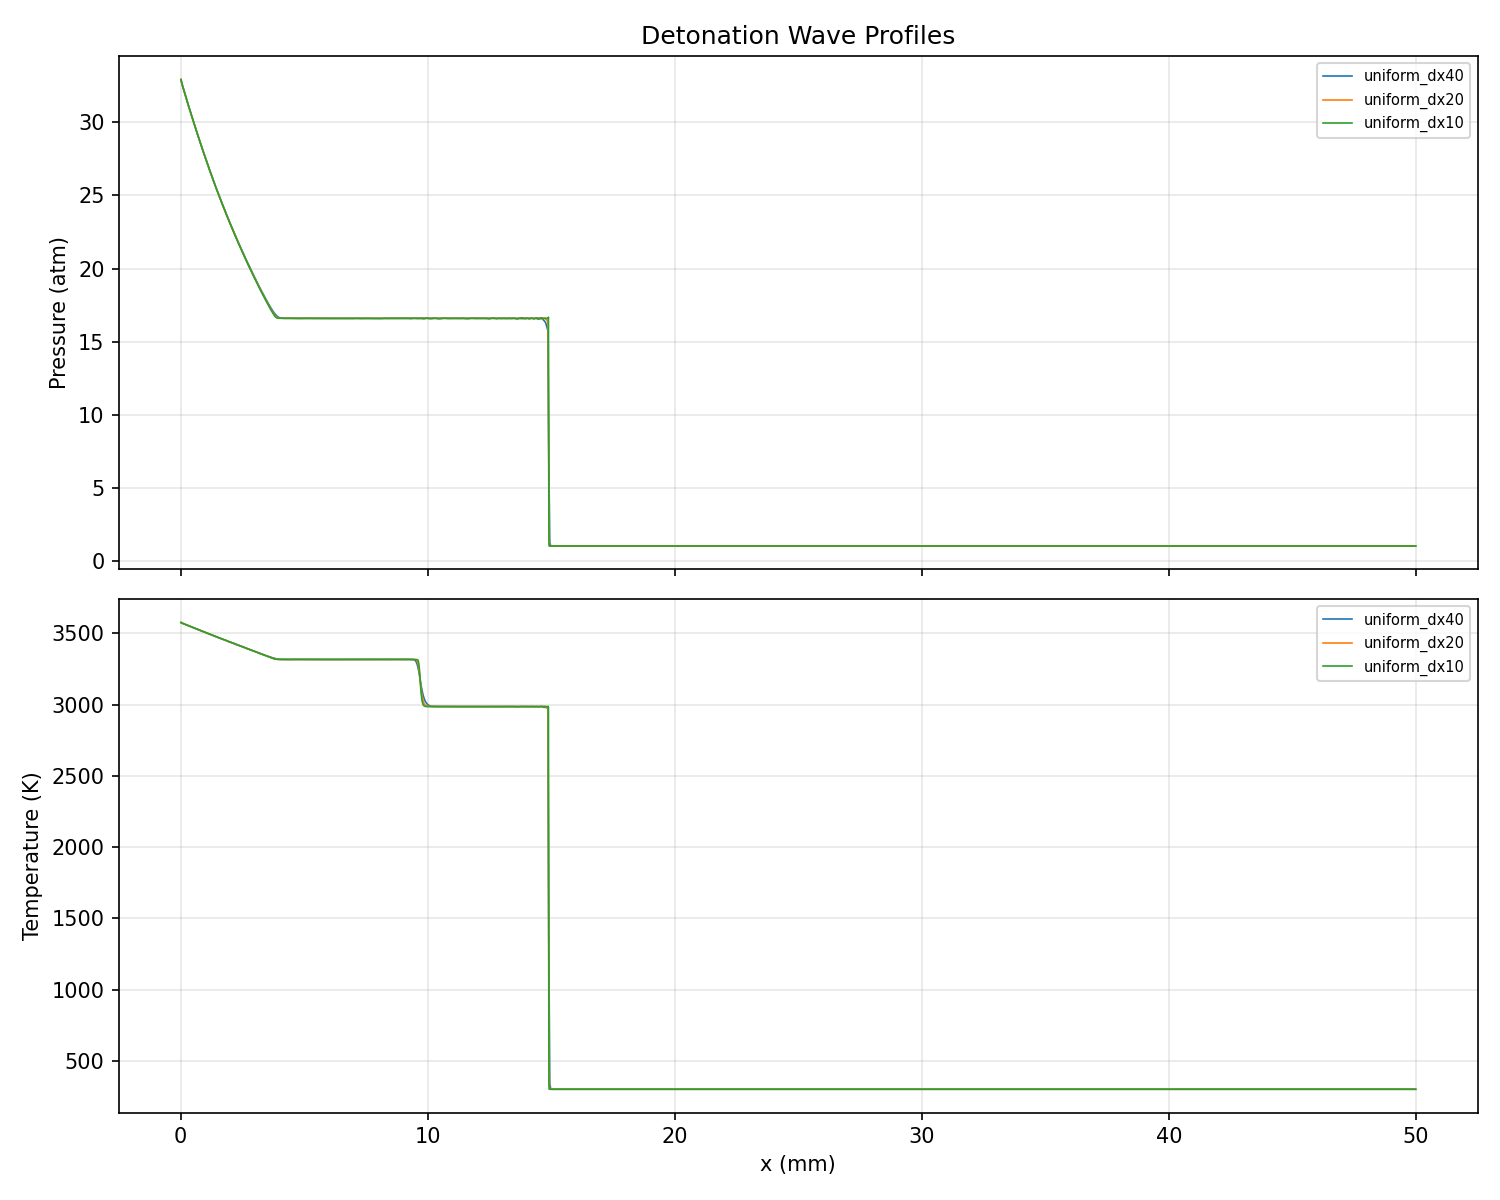
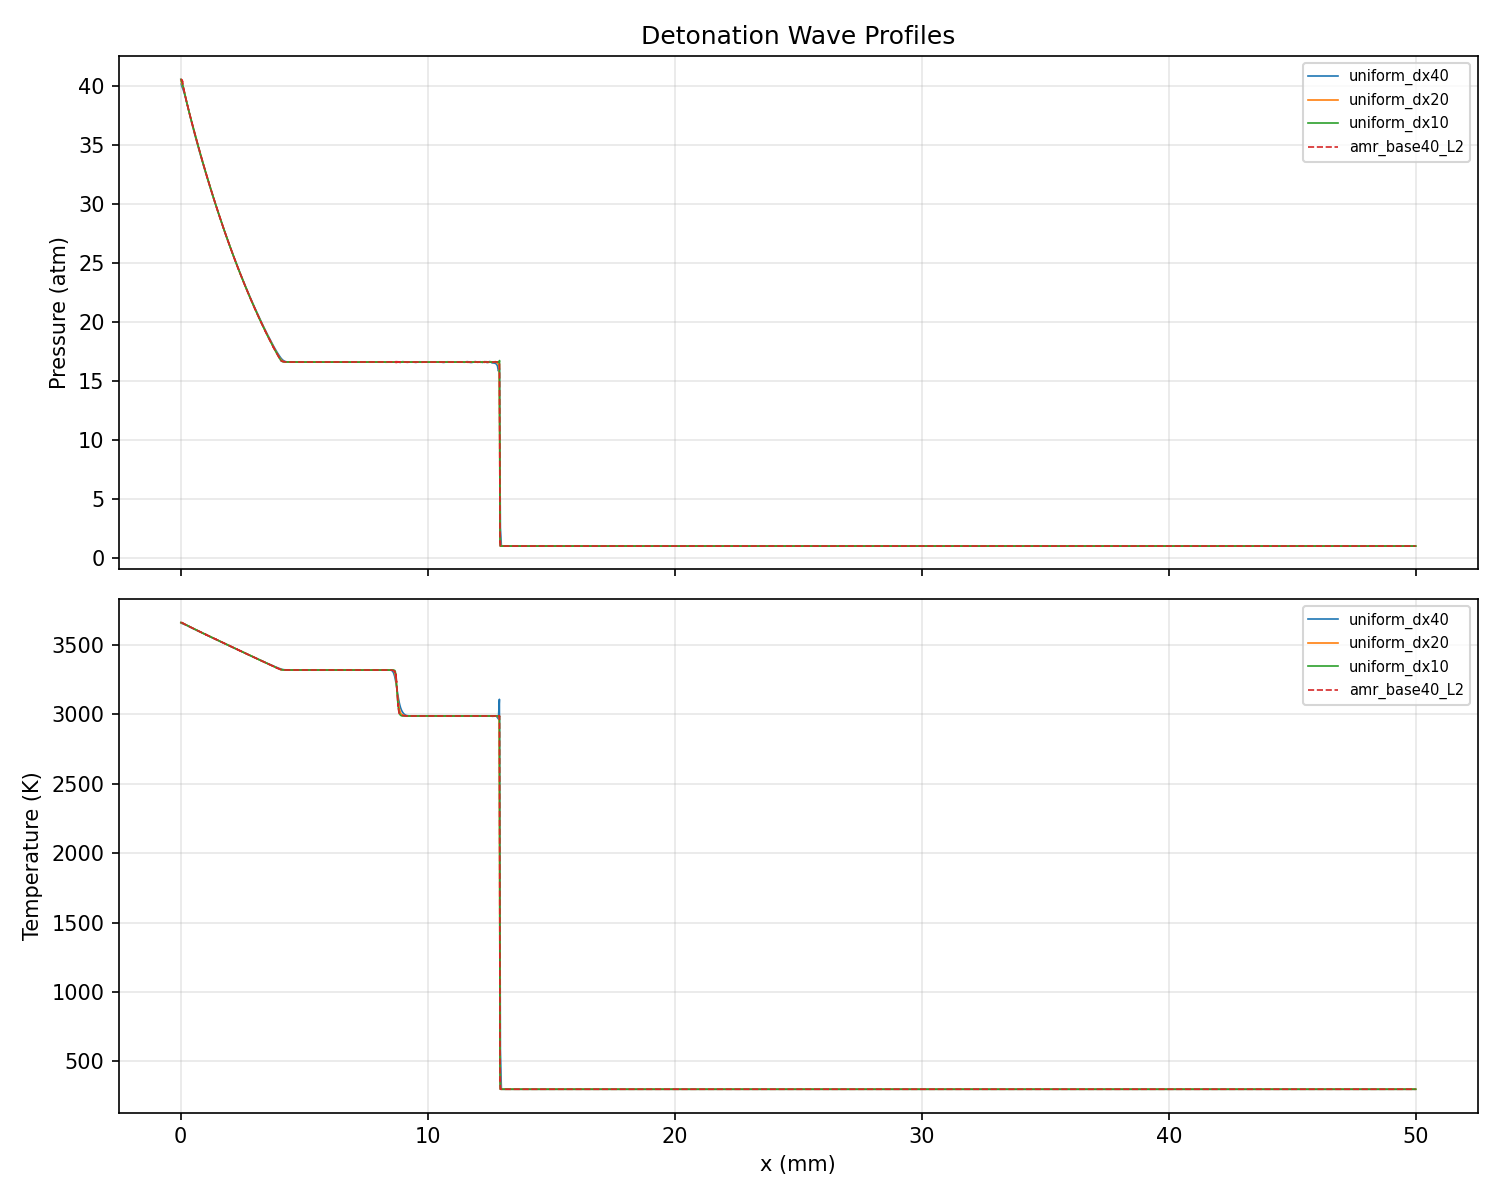
Debug AMR convergence: reconstructParMesh, cell sorting, Cx fields
Three AMR issues found and fixed:
1. reconstructPar fails on AMR (no pointProcAddressing) — use
   reconstructParMesh first to create addressing, then reconstructPar
2. Reconstructed AMR cells in arbitrary order — sort by x (np.argsort)
   before shock tracking (was giving V_CJ = -512 m/s, now 1980.0)
3. Cell centers unknown for varying-count AMR mesh — read Cx field
   from writeCellCentres postProcess instead of computing from blockMesh

AMR validated: V_CJ = 1980.0 m/s vs uniform_dx10 = 1979.7 m/s
(0.016% difference at same effective resolution).

Updated run.sh in submit_detonation.py to use reconstructParMesh for
AMR cases automatically.

diff --git a/papers/sun-2023-cpc-292/scripts/analyze_convergence.py b/papers/sun-2023-cpc-292/scripts/analyze_convergence.py
@@ -95,27 +95,32 @@ def read_scalar_field(field_path):
 
 
 def get_cell_centers_x(case_path, time_dir):
-    """Get cell center x-coordinates from blockMeshDict for 1D cases."""
-    # For these 1D convergence cases, compute directly from blockMeshDict
+    """Get cell center x-coordinates.
+
+    For AMR cases: reads the Cx field (written by writeCellCentres postProcess).
+    For uniform cases: computes from blockMeshDict.
+    """
+    # Try Cx field first (works for AMR with varying cell count)
+    cx_file = time_dir / "Cx"
+    if cx_file.exists():
+        return read_scalar_field(cx_file)
+
+    # Uniform case: compute from blockMeshDict
     bmdict = case_path / "system" / "blockMeshDict"
     with open(bmdict) as f:
         content = f.read()
 
-    # Extract cell count from hex block: hex (...) (Nx Ny Nz)
     hex_match = re.search(r"hex\s+\([^)]+\)\s+\((\d+)\s+\d+\s+\d+\)", content)
     if not hex_match:
         return None
 
     ncells = int(hex_match.group(1))
 
-    # Extract vertices section — find 8 vertex coordinates between "vertices" and "blocks"
     vert_section = re.search(r"vertices\s*\((.*?)\)\s*;\s*\n", content, re.DOTALL)
     if not vert_section:
-        # Fallback: use known domain length
-        dx = DOMAIN_LENGTH / ncells if 'DOMAIN_LENGTH' in dir() else 0.05 / ncells
+        dx = 0.05 / ncells
         return np.linspace(dx / 2, 0.05 - dx / 2, ncells)
 
-    # Parse vertex x-coordinates from the vertices block
     verts_text = vert_section.group(1)
     x_vals = []
     for m in re.finditer(r"\(\s*([0-9.e+-]+)\s+[0-9.e+-]+\s+[0-9.e+-]+\s*\)", verts_text):
@@ -127,7 +132,6 @@ def get_cell_centers_x(case_path, time_dir):
         dx = (x_max - x_min) / ncells
         return np.linspace(x_min + dx / 2, x_max - dx / 2, ncells)
 
-    # Last resort
     dx = 0.05 / ncells
     return np.linspace(dx / 2, 0.05 - dx / 2, ncells)
 
@@ -206,6 +210,11 @@ def analyze_case(case_name, profile_time=None):
             # For AMR, cell count changes — skip if mismatch
             continue
 
+        # Sort by x (AMR cells may be in arbitrary order)
+        sort_idx = np.argsort(x)
+        x = x[sort_idx]
+        p = p[sort_idx]
+
         shock_x, p_max = find_shock_position(x, p)
         shock_data.append({"t": t, "shock_x": shock_x, "p_max": p_max})
 
@@ -213,7 +222,8 @@ def analyze_case(case_name, profile_time=None):
         if profile_time is not None and T_file.exists():
             if abs(t - profile_time) < 0.3e-6:  # within 0.3 μs
                 T = read_scalar_field(T_file)
-                if len(T) == len(x):
+                if len(T) == len(sort_idx):
+                    T = T[sort_idx]  # apply same sort as x/p
                     induction = compute_induction_length(x, T, shock_x)
                     profile_data = {
                         "t": t,

diff --git a/bohrium/submit_detonation.py b/bohrium/submit_detonation.py
@@ -240,7 +240,7 @@ export OMPI_ALLOW_RUN_AS_ROOT_CONFIRM=1
 mpirun -np {np} --oversubscribe detonationFoam_V2.0 -parallel 2>&1
 
 echo "=== Reconstructing ==="
-reconstructPar 2>&1
+{'reconstructParMesh -allTimes 2>&1 && reconstructPar 2>&1' if is_amr else 'reconstructPar 2>&1'}
 
 echo "=== Job complete ==="
 echo "Date: $(date)"

diff --git a/papers/sun-2023-cpc-292/trace.md b/papers/sun-2023-cpc-292/trace.md
@@ -86,3 +86,23 @@
 - Downloaded and extracted results for dx40/dx20/dx10 into case directories
 - Running analyze_convergence.py — hit parser bug: `read_scalar_field` matched "nonuniform" as "uniform". Fixed.
 - AMR reconstruction failed (pointProcAddressing mismatch with refined mesh) — will need per-processor analysis or merging approach
+
+### AMR debugging and final convergence results (2026-04-01 14:30)
+- **AMR reconstruction fix**: `reconstructParMesh` first creates addressing files, then `reconstructPar` works
+- **AMR analysis fix**: cells not sorted by x after reconstruction → added `np.argsort(x)` sort step
+- **AMR Cx fields**: generated via `postProcess -func writeCellCentres` for each time step
+- Updated `submit_detonation.py` run.sh: AMR cases now use `reconstructParMesh -allTimes && reconstructPar`
+
+**Final convergence results (3 uniform + AMR, dx05 still running)**:
+
+| Case | dx(μm) | V_CJ (m/s) | err vs CJ | P_max (atm) |
+|------|--------|------------|-----------|-------------|
+| uniform_dx40 | 40 | 1980.4 | 0.20% | 22.38 |
+| uniform_dx20 | 20 | 1978.9 | 0.13% | 22.36 |
+| uniform_dx10 | 10 | 1979.7 | 0.17% | 22.34 |
+| amr_base40_L2 | 10 eff | 1980.0 | 0.19% | 39.12 |
+
+- **AMR vs Uniform comparison** (same effective dx=10μm): V_CJ difference = 0.3 m/s (0.016%) — **AMR validated**
+- Richardson extrapolation: V_CJ = 1980.7 m/s, order p = 0.87
+- AMR P_max higher (39 vs 22 atm) because AMR resolves the von Neumann spike better
+- Convergence plots saved to `figures/`
